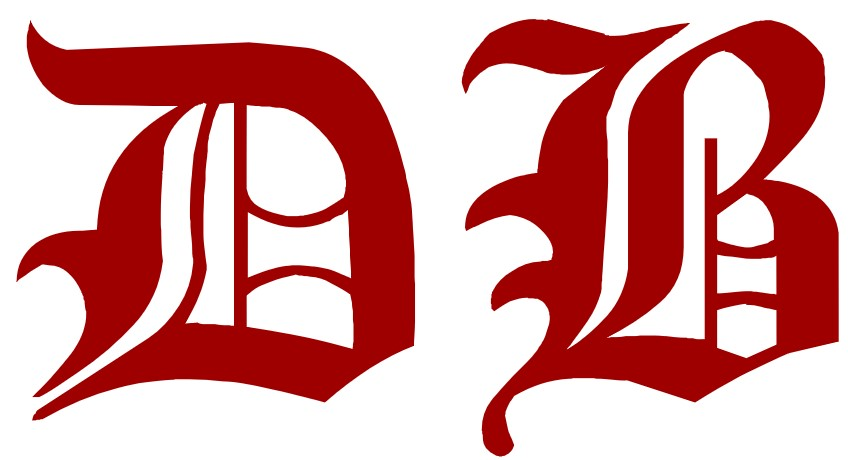
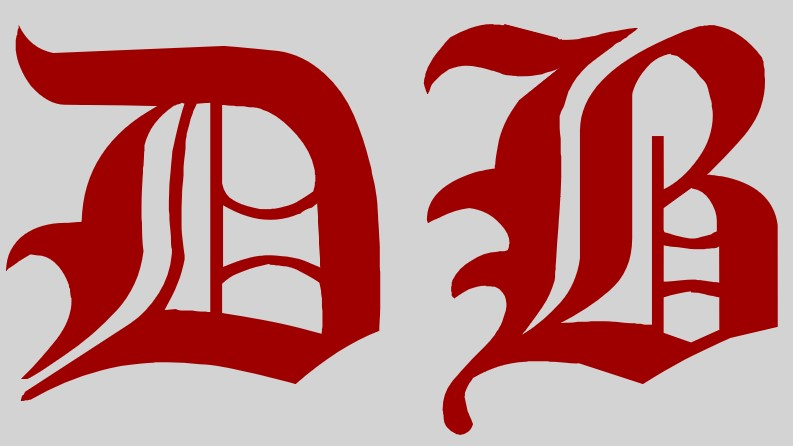
added header color

diff --git a/404.html b/404.html
@@ -168,7 +168,7 @@
 <link rel="stylesheet" href="https://www.w3schools.com/w3css/4/w3.css">
 <link rel="stylesheet" href="https://cdnjs.cloudflare.com/ajax/libs/font-awesome/4.7.0/css/font-awesome.min.css">
   </style></head>
-<body><header class="site-header">
+<body><header class="site-header" style="background-color: #eeeeee;">
 
   <div class="wrapper"><span><a class="site-title" rel="author" href="/bdebjyoti/">
       <img src="/bdebjyoti/assets/D_old.jpg" alt="Smiley face" height="40" >

diff --git a/blog/index.html b/blog/index.html
@@ -168,7 +168,7 @@
 <link rel="stylesheet" href="https://www.w3schools.com/w3css/4/w3.css">
 <link rel="stylesheet" href="https://cdnjs.cloudflare.com/ajax/libs/font-awesome/4.7.0/css/font-awesome.min.css">
   </style></head>
-<body><header class="site-header">
+<body><header class="site-header" style="background-color: #eeeeee;">
 
   <div class="wrapper"><span><a class="site-title" rel="author" href="/bdebjyoti/">
       <img src="/bdebjyoti/assets/D_old.jpg" alt="Smiley face" height="40" >

diff --git a/eda/2020/03/04/first-post.html b/eda/2020/03/04/first-post.html
@@ -170,7 +170,7 @@
 <link rel="stylesheet" href="https://www.w3schools.com/w3css/4/w3.css">
 <link rel="stylesheet" href="https://cdnjs.cloudflare.com/ajax/libs/font-awesome/4.7.0/css/font-awesome.min.css">
   </style></head>
-<body><header class="site-header">
+<body><header class="site-header" style="background-color: #eeeeee;">
 
   <div class="wrapper"><span><a class="site-title" rel="author" href="/bdebjyoti/">
       <img src="/bdebjyoti/assets/D_old.jpg" alt="Smiley face" height="40" >

diff --git a/index.html b/index.html
@@ -168,7 +168,7 @@
 <link rel="stylesheet" href="https://www.w3schools.com/w3css/4/w3.css">
 <link rel="stylesheet" href="https://cdnjs.cloudflare.com/ajax/libs/font-awesome/4.7.0/css/font-awesome.min.css">
   </style></head>
-<body><header class="site-header">
+<body><header class="site-header" style="background-color: #eeeeee;">
 
   <div class="wrapper"><span><a class="site-title" rel="author" href="/bdebjyoti/">
       <img src="/bdebjyoti/assets/D_old.jpg" alt="Smiley face" height="40" >

diff --git a/personal/index.html b/personal/index.html
@@ -168,7 +168,7 @@
 <link rel="stylesheet" href="https://www.w3schools.com/w3css/4/w3.css">
 <link rel="stylesheet" href="https://cdnjs.cloudflare.com/ajax/libs/font-awesome/4.7.0/css/font-awesome.min.css">
   </style></head>
-<body><header class="site-header">
+<body><header class="site-header" style="background-color: #eeeeee;">
 
   <div class="wrapper"><span><a class="site-title" rel="author" href="/bdebjyoti/">
       <img src="/bdebjyoti/assets/D_old.jpg" alt="Smiley face" height="40" >

diff --git a/publications/index.html b/publications/index.html
@@ -168,7 +168,7 @@
 <link rel="stylesheet" href="https://www.w3schools.com/w3css/4/w3.css">
 <link rel="stylesheet" href="https://cdnjs.cloudflare.com/ajax/libs/font-awesome/4.7.0/css/font-awesome.min.css">
   </style></head>
-<body><header class="site-header">
+<body><header class="site-header" style="background-color: #eeeeee;">
 
   <div class="wrapper"><span><a class="site-title" rel="author" href="/bdebjyoti/">
       <img src="/bdebjyoti/assets/D_old.jpg" alt="Smiley face" height="40" >

diff --git a/research/index.html b/research/index.html
@@ -168,7 +168,7 @@
 <link rel="stylesheet" href="https://www.w3schools.com/w3css/4/w3.css">
 <link rel="stylesheet" href="https://cdnjs.cloudflare.com/ajax/libs/font-awesome/4.7.0/css/font-awesome.min.css">
   </style></head>
-<body><header class="site-header">
+<body><header class="site-header" style="background-color: #eeeeee;">
 
   <div class="wrapper"><span><a class="site-title" rel="author" href="/bdebjyoti/">
       <img src="/bdebjyoti/assets/D_old.jpg" alt="Smiley face" height="40" >

diff --git a/tools/index.html b/tools/index.html
@@ -168,7 +168,7 @@
 <link rel="stylesheet" href="https://www.w3schools.com/w3css/4/w3.css">
 <link rel="stylesheet" href="https://cdnjs.cloudflare.com/ajax/libs/font-awesome/4.7.0/css/font-awesome.min.css">
   </style></head>
-<body><header class="site-header">
+<body><header class="site-header" style="background-color: #eeeeee;">
 
   <div class="wrapper"><span><a class="site-title" rel="author" href="/bdebjyoti/">
       <img src="/bdebjyoti/assets/D_old.jpg" alt="Smiley face" height="40" >
